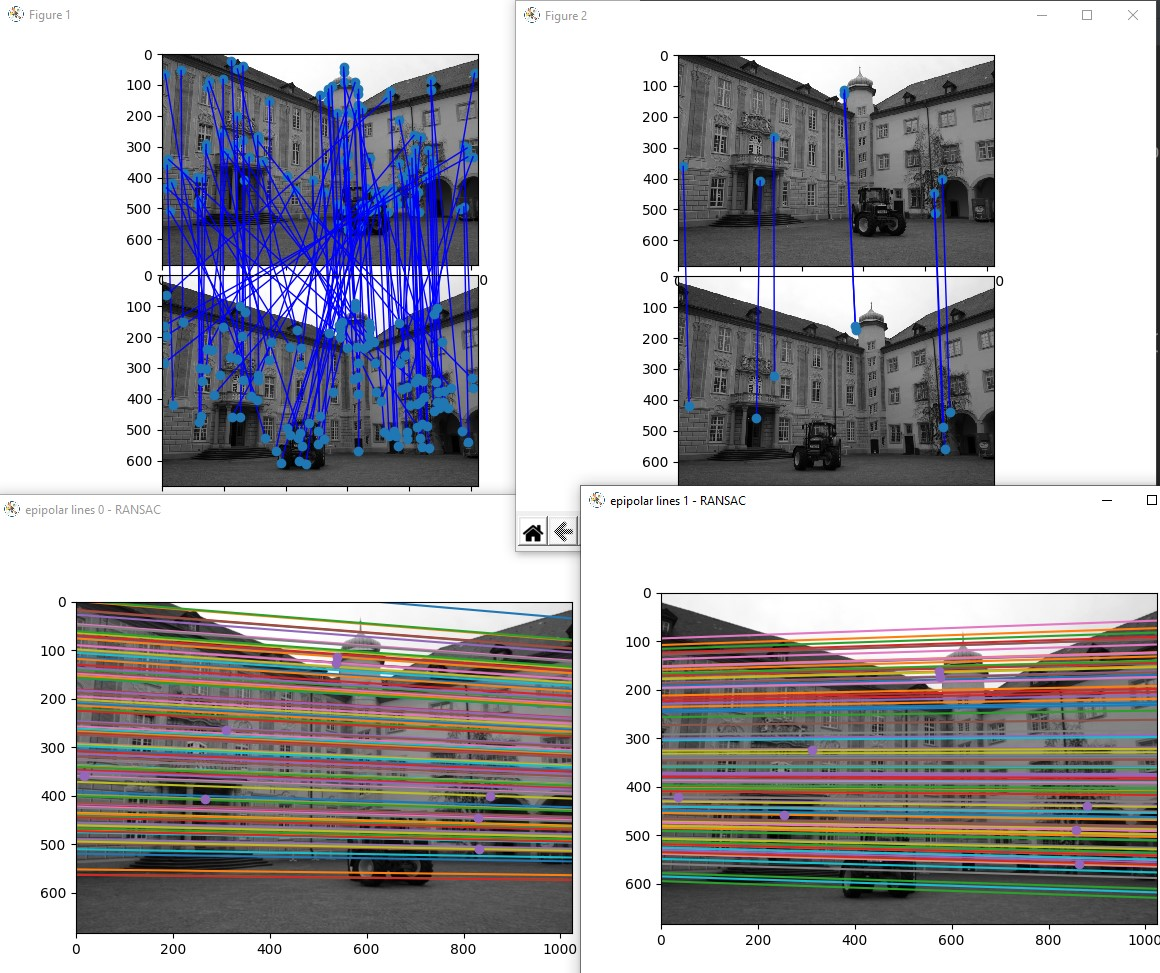
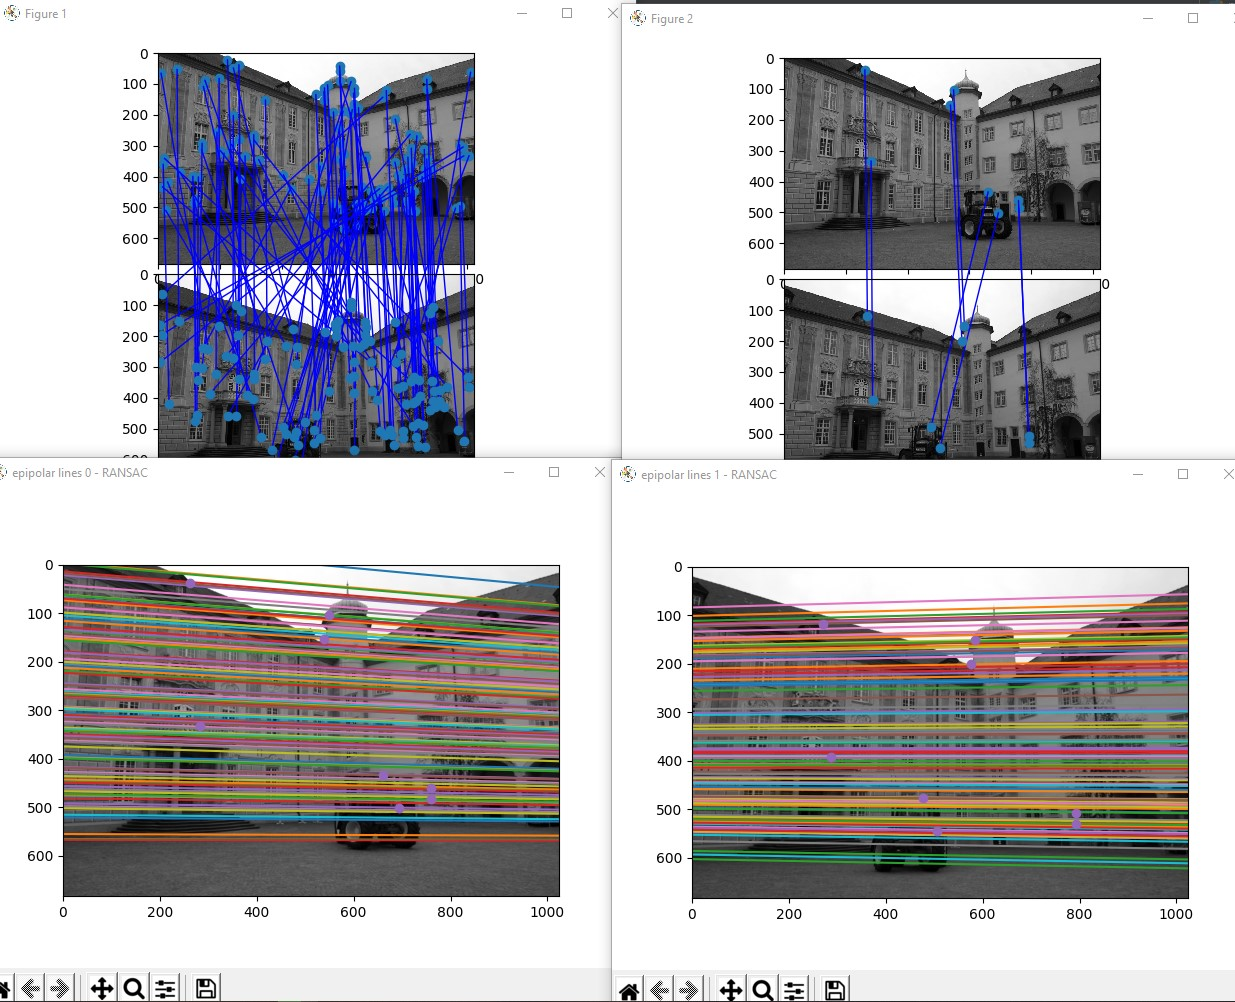
Fixed GS to only optimize for inliars

diff --git a/main.py b/main.py
@@ -45,13 +45,12 @@ lab3.show_corresp(img_0,img_1,pl,pr)
 
 plt.figure('epipolar lines 0 - RANSAC')
 plt.imshow(img_0)
-lab3.plot_eplines(F, p1, img_0.shape)
+lab3.plot_eplines(F, pr, img_0.shape)
 plt.plot(pl[0], pl[1], 'o')
 plt.figure('epipolar lines 1 - RANSAC')
 plt.imshow(img_1)
-lab3.plot_eplines(F.T, p0, img_1.shape)
+lab3.plot_eplines(F.T, pl, img_1.shape)
 plt.plot(pr[0], pr[1], 'o')
-plt.show()
 
 """
 Gold Standard
@@ -63,8 +62,8 @@ Determine camera matrices from F and triangulate points
 C0, C1 = lab3.fmatrix_cameras(F)
 
 triangulated_points = []
-for i in range(p0.shape[1]):
-    p = lab3.triangulate_optimal(C0, C1, p0[:, i], p1[:, i])
+for i in range(pl.shape[1]):
+    p = lab3.triangulate_optimal(C0, C1, pl[:, i], pr[:, i])
     triangulated_points.append(p)
 
 triangulated_points = np.asarray(triangulated_points)
@@ -76,7 +75,7 @@ Calculate residuals and optimize a la gold standard
 # Stack to fit fmatrix_residuals_gs
 params = np.hstack((C0.ravel(), triangulated_points.ravel()))
 
-D = least_squares(lambda x: lab3.fmatrix_residuals_gs(x, p0, p1), params)
+D = least_squares(lambda x: lab3.fmatrix_residuals_gs(x, pl, pr), params)
 
 C0_new = np.reshape(D.x[0:12], [3, 4])
 F_new = lab3.fmatrix_from_cameras(C0_new, C1)
@@ -89,10 +88,10 @@ print('F_new:',F_new)
 
 plt.figure('epipolar lines 0 - GS')
 plt.imshow(img_0)
-lab3.plot_eplines(F_new, p1, img_0.shape)
+lab3.plot_eplines(F_new, pr, img_0.shape)
 plt.figure('epipolar lines 1 - GS')
 plt.imshow(img_1)
-lab3.plot_eplines(F_new.T, p0, img_1.shape)
+lab3.plot_eplines(F_new.T, pl, img_1.shape)
 
 #### testing area ####
 plt.show()

diff --git a/ransac.py b/ransac.py
@@ -19,12 +19,17 @@ def ransac(p0, p1, N, t = 10):
         # print(residuals)
         inliers = np.zeros_like(residuals)
         inliers[abs(residuals) < t] = 1
-        # print(inliers)
+
+        # print(p0)
+        # print(inliers.sum(axis=0)==2)
+        # print(np.where(inliers.sum(axis=0)==2)[0])
+        # print(p0[:,np.where(inliers.sum(axis=0)==2)[0]])
 
         if np.sum(inliers) > cur_max_inliers:
+
             cur_max_inliers = np.sum(inliers)
             cur_F = F
-            cur_pl = pl
-            cur_pr = pr
+            cur_pl = p0[:, np.where(inliers.sum(axis=0) == 2)[0]]
+            cur_pr = p1[:, np.where(inliers.sum(axis=0) == 2)[0]]
 
     return cur_F, cur_pl, cur_pr
